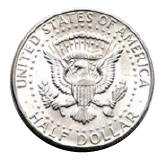
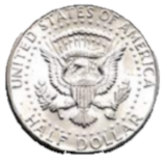
coin flip!

diff --git a/components/Organizms/CoinFlipLayout.tsx b/components/Organizms/CoinFlipLayout.tsx
@@ -1,6 +1,7 @@
 import { Box, Container, Typography } from '@mui/material'
 import axios from 'axios'
 import CenterStack from 'components/Atoms/CenterStack'
+import ImageYRotator from 'components/Atoms/Images/ImageYRotator'
 import RemoteImageFlat from 'components/Atoms/RemoteImageFlat'
 import { BarChart } from 'components/Molecules/Charts/barChartOptions'
 import CoinFlipChart from 'components/Molecules/CoinFlipChart'
@@ -22,7 +23,7 @@ export interface Coin {
 const getImage = (face: headsTails) => {
   switch (face) {
     case 'heads':
-      return '/images/coin-head.png'
+      return '/images/penny-head.jpg'
     case 'tails':
       return '/images/coin-tails.png'
   }
@@ -90,11 +91,11 @@ const CoinFlipLayout = ({ coinflipStats }: { coinflipStats: CoinFlipStats }) => 
   const coins: Coin[] = [
     {
       face: 'heads',
-      imageUrl: '/images/coin-head.png',
+      imageUrl: '/images/penny-heads.png',
     },
     {
       face: 'tails',
-      imageUrl: '/images/coin-tails.png',
+      imageUrl: '/images/penny-tails.png',
     },
   ]
 
@@ -180,14 +181,21 @@ const CoinFlipLayout = ({ coinflipStats }: { coinflipStats: CoinFlipStats }) => 
         <Box>
           {model.defaultState && (
             <Box sx={{ cursor: 'pointer' }}>
-              <RemoteImageFlat title={model.allCoins[0].face} url={model.allCoins[0].imageUrl} height={100} width={100} onClicked={handleFlipClick} />
+              {/* <RemoteImageFlat title={model.allCoins[0].face} url={model.allCoins[0].imageUrl} height={100} width={100} onClicked={handleFlipClick} /> */}
+              <ImageYRotator imageUrl={model.allCoins[0].imageUrl} height={100} width={100} speed={0} onClicked={handleFlipClick} />
             </Box>
           )}
-          {model.isLoading && <RemoteImageFlat title={model.allCoins[0].face} url={model.allCoins[0].imageUrl} height={100} width={100} className='rotate' />}
+          {model.isLoading && (
+            <>
+              {/* <RemoteImageFlat title={model.allCoins[0].face} url={model.allCoins[0].imageUrl} height={100} width={100} className='rotate' /> */}
+              <ImageYRotator imageUrl={model.allCoins[0].imageUrl} height={100} width={100} speed={1.2} />
+            </>
+          )}
           {model.flippedCoin && (
             <>
               <Box sx={{ cursor: 'pointer' }}>
-                <RemoteImageFlat title={model.flippedCoin.face} url={model.flippedCoin.imageUrl} height={100} width={100} onClicked={handleFlipClick} />
+                {/* <RemoteImageFlat title={model.flippedCoin.face} url={model.flippedCoin.imageUrl} height={100} width={100} onClicked={handleFlipClick} /> */}
+                <ImageYRotator imageUrl={model.flippedCoin.imageUrl} height={100} width={100} speed={0} onClicked={handleFlipClick} />
               </Box>
               <CenterStack sx={{ minHeight: 36 }}>
                 <Box>

diff --git a/components/Organizms/user/NoteList.tsx b/components/Organizms/user/NoteList.tsx
@@ -44,15 +44,6 @@ const NoteList = ({
 
   return (
     <Box sx={{ py: 2 }}>
-      <ConfirmDeleteDialog
-        show={showConfirm}
-        title={'confirm delete'}
-        text={'Are you sure you want to delete this note?'}
-        onConfirm={handleYesDelete}
-        onCancel={() => {
-          setShowConfirm(false)
-        }}
-      />
       {!isFiltered && (
         <Box>
           <Box sx={{ pb: 2 }}>
@@ -65,7 +56,7 @@ const NoteList = ({
         {data.map((item, i) => (
           <Box key={i} textAlign='left'>
             <Stack sx={{ backgroundColor: theme.palette.mode === 'dark' ? DarkBlue : ChartBackground }}>
-              <Stack direction='row' py={'3px'} alignItems='center'>
+              <Stack direction='row' py={1} alignItems='center'>
                 <ListHeader
                   backgroundColor='transparent'
                   item={item}
@@ -97,6 +88,15 @@ const NoteList = ({
           </Box>
         ))}
       </Box>
+      <ConfirmDeleteDialog
+        show={showConfirm}
+        title={'confirm delete'}
+        text={'Are you sure you want to delete this note?'}
+        onConfirm={handleYesDelete}
+        onCancel={() => {
+          setShowConfirm(false)
+        }}
+      />
     </Box>
   )
 }

diff --git a/components/Atoms/Images/ImageSpinner.tsx b/components/Atoms/Images/ImageSpinner.tsx
@@ -1,0 +1,47 @@
+import React from 'react'
+import styled from 'styled-components'
+import CenterStack from '../CenterStack'
+import RemoteImageFlat from '../RemoteImageFlat'
+
+const StyledSpinner = styled.div`
+  animation: rotation ${(props) => props.className || '0s'}s linear infinite;
+  @keyframes rotation {
+    from {
+      transform: rotate(0deg);
+    }
+    to {
+      transform: rotate(359deg);
+    }
+  }
+`
+
+const ImageSpinner = ({
+  imageUrl,
+  speed,
+  width,
+  height,
+  clickable,
+  onClicked,
+}: {
+  imageUrl: string
+  speed?: number
+  width?: number
+  height?: number
+  clickable?: boolean
+  onClicked?: () => void
+}) => {
+  const handleClick = () => {
+    onClicked?.()
+  }
+  return (
+    <>
+      <CenterStack sx={{ cursor: clickable ? 'pointer' : 'default' }}>
+        <StyledSpinner className={`${speed}`}>
+          <RemoteImageFlat title='roulette' url={imageUrl} width={width} height={height} onClicked={handleClick} />
+        </StyledSpinner>
+      </CenterStack>
+    </>
+  )
+}
+
+export default ImageSpinner

diff --git a/components/Atoms/Images/ImageYRotator.tsx b/components/Atoms/Images/ImageYRotator.tsx
@@ -1,21 +1,21 @@
 import React from 'react'
 import styled from 'styled-components'
-import CenterStack from './CenterStack'
-import RemoteImageFlat from './RemoteImageFlat'
+import CenterStack from '../CenterStack'
+import RemoteImageFlat from '../RemoteImageFlat'
 
 const StyledSpinner = styled.div`
-  animation: rotation ${(props) => props.className || '0s'}s linear infinite;
+  animation: rotation ${(props) => props.className || '0s'}s alternate infinite;
   @keyframes rotation {
     from {
-      transform: rotate(0deg);
+      transform: rotateY(0deg);
     }
     to {
-      transform: rotate(359deg);
+      transform: rotateY(360deg);
     }
   }
 `
 
-const ImageSpinner = ({
+const ImageYRotator = ({
   imageUrl,
   speed,
   width,
@@ -44,4 +44,4 @@ const ImageSpinner = ({
   )
 }
 
-export default ImageSpinner
+export default ImageYRotator

diff --git a/components/Atoms/Inputs/StaticAutoComplete.tsx b/components/Atoms/Inputs/StaticAutoComplete.tsx
@@ -5,7 +5,6 @@ import React from 'react'
 const StaticAutoComplete = ({
   options,
   placeholder = 'search',
-
   onSelected,
 }: {
   options: string[]
@@ -20,13 +19,7 @@ const StaticAutoComplete = ({
       sx={{ width: { xs: 250, md: 500 }, input: { color: CasinoBlue } }}
       options={options}
       renderInput={(params) => (
-        <TextField
-          {...params}
-          placeholder={placeholder}
-          variant='outlined'
-          size='small'
-          sx={{ width: '100%', maxWidth: '708px', backgroundColor: 'rgba(255,255,255,0.9)', borderRadius: 1 }}
-        />
+        <TextField {...params} placeholder={placeholder} variant='outlined' size='small' sx={{ width: '100%', maxWidth: '708px', borderRadius: 1 }} />
       )}
       onChange={(_, data) => {
         if (data) {

diff --git a/components/Organizms/roulette/RouletteLayout.tsx b/components/Organizms/roulette/RouletteLayout.tsx
@@ -2,7 +2,7 @@ import { Box, LinearProgress, Stack, Typography } from '@mui/material'
 import CenteredHeader from 'components/Atoms/Boxes/CenteredHeader'
 import SecondaryButton from 'components/Atoms/Buttons/SecondaryButton'
 import CenterStack from 'components/Atoms/CenterStack'
-import ImageSpinner from 'components/Atoms/ImageSpinner'
+import ImageSpinner from 'components/Atoms/Images/ImageSpinner'
 import RouletteBarChart from 'components/Organizms/roulette/RouletteBarChart'
 import { CasinoBlueTransparent, CasinoWhiteTransparent, ChartBackground, OceanBlue, OceanBlueTransparent } from 'components/themes/mainTheme'
 import { WheelSpinStats } from 'lib/backend/api/aws/apiGateway'

diff --git a/components/Organizms/RouletteLayout.tsx b/components/Organizms/RouletteLayout.tsx
@@ -2,7 +2,7 @@ import { Box, LinearProgress, Typography } from '@mui/material'
 import CenteredHeader from 'components/Atoms/Boxes/CenteredHeader'
 import SecondaryButton from 'components/Atoms/Buttons/SecondaryButton'
 import CenterStack from 'components/Atoms/CenterStack'
-import ImageSpinner from 'components/Atoms/ImageSpinner'
+import ImageSpinner from 'components/Atoms/Images/ImageSpinner'
 import { ApexBarChartData } from 'components/Molecules/Charts/apex/models/chartModes'
 import { BarChart } from 'components/Molecules/Charts/barChartOptions'
 import RouletteBarChart from 'components/Organizms/roulette/RouletteBarChart'

diff --git a/components/RecipesLayout.tsx b/components/RecipesLayout.tsx
@@ -37,6 +37,7 @@ const RecipesLayout = ({ autoComplete, baseUrl, featured }: { autoComplete: Opti
           sx={{ width: 360 }}
           renderInput={(params) => <TextField {...params} placeholder={`search ${autoComplete.length} recipes`} />}
         />
+        {/* <StaticAutoComplete options={autoComplete} placeholder={`search ${result.length} notes`} onSelected={handleNoteSelected} /> */}
       </Stack>
       <Box sx={{ my: 2 }}>
         <CenteredTitle title={'Featured Recipes'} />
